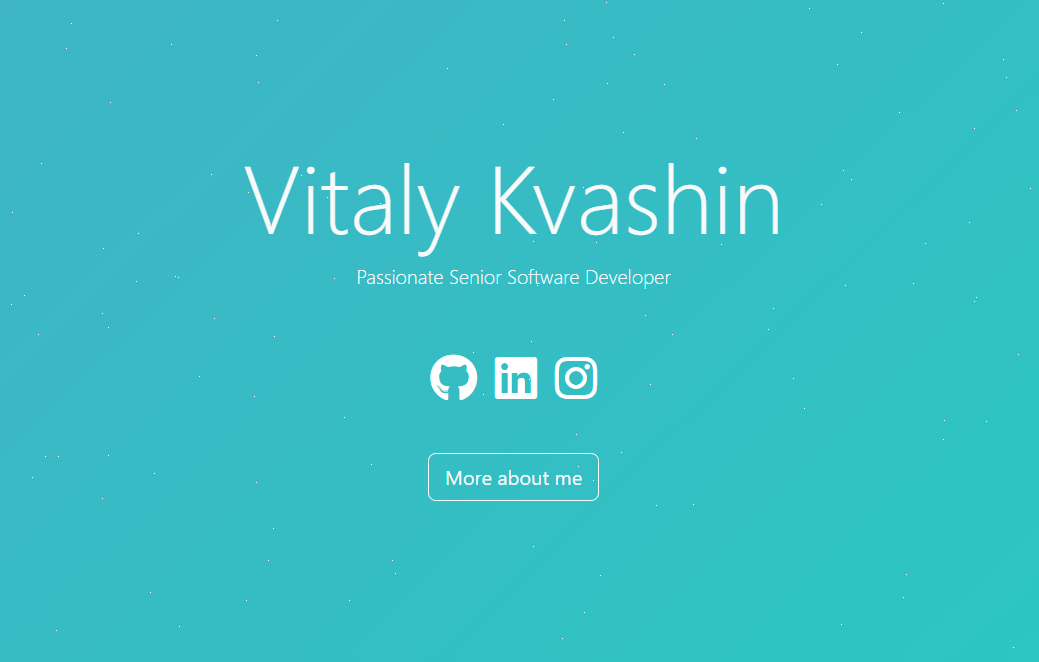
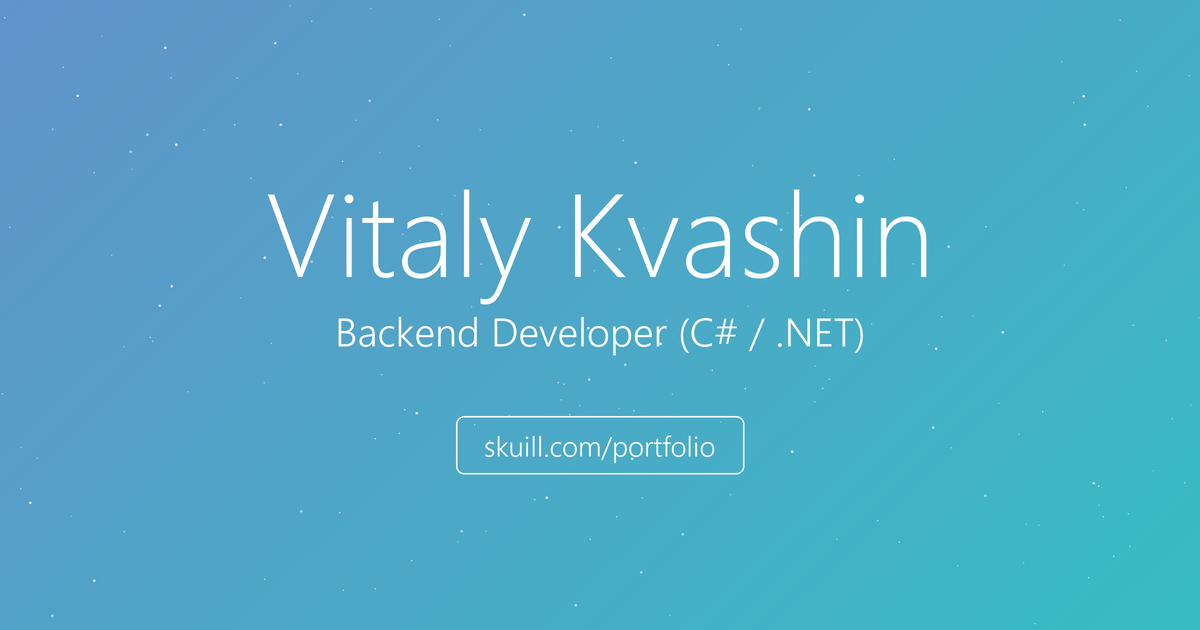
SEO: canonical address, link previews, structured data, new social image (#12)
- index.html: canonical https://skuill.com/portfolio/ on both hosts, Open Graph and X tags
  with an absolute image URL and its size, schema.org Person in JSON-LD, title with the role.
- public/social-image.png: new 1200x630 picture in the style of the first screen, built by
  branding/social-image/social_image.py (Pillow).
- robots.txt: explicit allow; the root file for skuill.com belongs to the front nginx (#13).
- src/seo.test.js: checks the head tags, JSON-LD (name and profiles from config.js),
  the image size against the tags and robots.txt.

diff --git a/src/seo.test.js b/src/seo.test.js
@@ -1,0 +1,80 @@
+import { readFileSync } from "node:fs";
+import { join } from "node:path";
+import { mainBody } from "./editable-stuff/config";
+
+// The page head is static HTML: link preview crawlers and most search engine bots do not run the app's JavaScript.
+const read = (path) => readFileSync(join(import.meta.dirname, "..", path));
+const page = new DOMParser().parseFromString(read("index.html").toString(), "text/html");
+const tags = Object.fromEntries(
+  [...page.head.querySelectorAll("meta[name], meta[property]")].map((meta) => [
+    meta.getAttribute("property") ?? meta.name,
+    meta.content,
+  ])
+);
+
+const SITE = "https://skuill.com/portfolio/";
+const name = `${mainBody.firstName} ${mainBody.lastName}`;
+const role = "Backend Developer (C# / .NET)";
+const profile = (network) => mainBody.icons.find((icon) => icon.image === `fa-${network}`).url;
+
+test("points search engines to skuill.com and gives link previews a title, a description and an absolute image", () => {
+  expect({
+    title: page.title,
+    canonical: [...page.head.querySelectorAll('link[rel="canonical"]')].map((link) => link.getAttribute("href")),
+    tags,
+  }).toEqual({
+    title: `${name} · ${role}`,
+    canonical: [SITE],
+    tags: {
+      viewport: "width=device-width, initial-scale=1",
+      "theme-color": "#000000",
+      description: tags.description,
+      "og:type": "website",
+      "og:url": SITE,
+      "og:title": `${name} · ${role}`,
+      "og:description": tags.description,
+      "og:image": `${SITE}social-image.png`,
+      "og:image:width": "1200",
+      "og:image:height": "630",
+      "og:image:alt": `${name}, ${role}`,
+      "twitter:card": "summary_large_image",
+    },
+  });
+});
+
+test("tells search engines who the page is about, with the profiles linked from the first screen", () => {
+  const structuredData = [...page.head.querySelectorAll('script[type="application/ld+json"]')].map((script) =>
+    JSON.parse(script.textContent)
+  );
+
+  expect(structuredData).toEqual([
+    {
+      "@context": "https://schema.org",
+      "@type": "Person",
+      name,
+      jobTitle: role,
+      url: SITE,
+      sameAs: [profile("github"), profile("linkedin")],
+    },
+  ]);
+});
+
+test("ships the preview image from public/ in the size the tags announce", () => {
+  const png = read(`public/${new URL(tags["og:image"]).pathname.replace("/portfolio/", "")}`);
+
+  // A PNG starts with an 8-byte signature and the IHDR chunk: length, type, then width and height (big-endian).
+  expect({ chunk: png.toString("ascii", 12, 16), width: png.readUInt32BE(16), height: png.readUInt32BE(20) }).toEqual({
+    chunk: "IHDR",
+    width: Number(tags["og:image:width"]),
+    height: Number(tags["og:image:height"]),
+  });
+});
+
+test("lets every crawler in", () => {
+  const rules = read("public/robots.txt")
+    .toString()
+    .split(/\r?\n/)
+    .filter((line) => line && !line.startsWith("#"));
+
+  expect(rules).toEqual(["User-agent: *", "Allow: /"]);
+});

diff --git a/index.html b/index.html
@@ -20,10 +20,36 @@
     />
     <link rel="apple-touch-icon" href="/logo192.png" />
     <link rel="manifest" href="/manifest.json" />
-    <meta name="twitter:image" content="/social-image.png" />
-    <meta property="og:image" content="/social-image.png" />
     <!-- Files in public/ are referenced from the root; the build prefixes them with the base path (/portfolio/). -->
-    <title>Vitaly Kvashin</title>
+    <title>Vitaly Kvashin · Backend Developer (C# / .NET)</title>
+
+    <!-- The same page is served at skuill.com/portfolio/ and skuill.github.io/portfolio/: search engines index skuill.com. -->
+    <link rel="canonical" href="https://skuill.com/portfolio/" />
+    <!-- Link previews (LinkedIn, Telegram, Slack, X). Absolute URLs: not every crawler resolves relative ones.
+         The picture is built by branding/social-image/social_image.py. -->
+    <meta property="og:type" content="website" />
+    <meta property="og:url" content="https://skuill.com/portfolio/" />
+    <meta property="og:title" content="Vitaly Kvashin · Backend Developer (C# / .NET)" />
+    <meta
+      property="og:description"
+      content="Vitaly Kvashin, backend developer (C#/.NET) with over 12 years of experience: payment services and provider integrations at MAJORITY, distributed systems, observability and AI-assisted development."
+    />
+    <meta property="og:image" content="https://skuill.com/portfolio/social-image.png" />
+    <meta property="og:image:width" content="1200" />
+    <meta property="og:image:height" content="630" />
+    <meta property="og:image:alt" content="Vitaly Kvashin, Backend Developer (C# / .NET)" />
+    <meta name="twitter:card" content="summary_large_image" />
+    <!-- Who the page is about, for search engines (schema.org Person). -->
+    <script type="application/ld+json">
+      {
+        "@context": "https://schema.org",
+        "@type": "Person",
+        "name": "Vitaly Kvashin",
+        "jobTitle": "Backend Developer (C# / .NET)",
+        "url": "https://skuill.com/portfolio/",
+        "sameAs": ["https://github.com/skuill", "https://www.linkedin.com/in/vitaly-kvashin/"]
+      }
+    </script>
   </head>
   <body>
     <noscript>You need to enable JavaScript to run this app.</noscript>

diff --git a/branding/social-image/social_image.py b/branding/social-image/social_image.py
@@ -1,0 +1,85 @@
+"""Link preview image (Open Graph) in the style of the site's first screen: gradient, stars, thin white text.
+
+Usage: python social_image.py   -> ../../public/social-image.png (1200x630)
+
+Drawn at 2x and scaled down, so thin lines and text stay smooth. The stars use a fixed random seed,
+so the same script always produces the same image.
+"""
+import math
+import random
+from pathlib import Path
+
+from PIL import Image, ImageDraw, ImageFont
+
+OUT = Path(__file__).parent.parent.parent / "public" / "social-image.png"
+W, H, S = 1200, 630, 2
+# Segoe UI ships with Windows; the site's first screen uses it too (system font stack, light weight).
+LIGHT = "segoeuil.ttf"
+SEMILIGHT = "segoeuisl.ttf"
+
+# The first two colours of the site's animated gradient (mainBody.gradientColors in src/editable-stuff/config.js).
+# The site shows a small, moving part of it; the image takes the blue and part of the way to the teal,
+# where white text still reads well.
+BLUE = (98, 147, 202)
+TEAL = (26, 215, 192)
+TEAL_SHARE = 0.6
+ANGLE = 136  # degrees, as in the site's linear-gradient(136deg, ...)
+WHITE = (255, 255, 255)
+
+NAME = "Vitaly Kvashin"
+ROLE = "Backend Developer (C# / .NET)"
+ADDRESS = "skuill.com/portfolio"
+
+
+def gradient(start, end):
+    """A CSS-like linear gradient at ANGLE from start (top left) to end (bottom right)."""
+    angle = math.radians(ANGLE)
+    dx, dy = math.sin(angle), -math.cos(angle)
+    length = abs(W * dx) + abs(H * dy)  # CSS gradient line: the end colours land exactly in the corners
+    mask = Image.new("L", (W * S, H * S))
+    mask.putdata([
+        round(255 * max(0.0, min(1.0, ((x / S - W / 2) * dx + (y / S - H / 2) * dy) / length + 0.5)))
+        for y in range(H * S)
+        for x in range(W * S)
+    ])
+    return Image.composite(Image.new("RGB", mask.size, end), Image.new("RGB", mask.size, start), mask)
+
+
+def stars(image, seed=12):
+    """Small and medium white dots, like the two star layers of the site's background."""
+    layer = Image.new("RGBA", image.size, (0, 0, 0, 0))
+    draw = ImageDraw.Draw(layer)
+    rnd = random.Random(seed)
+    for count, size in ((150, 1), (45, 2)):
+        for _ in range(count):
+            x, y = rnd.uniform(0, W) * S, rnd.uniform(0, H) * S
+            draw.ellipse((x, y, x + size * S, y + size * S), fill=(*WHITE, rnd.randint(120, 230)))
+    return Image.alpha_composite(image.convert("RGBA"), layer)
+
+
+def font(name, size):
+    return ImageFont.truetype(name, size * S)
+
+
+def text(image):
+    draw = ImageDraw.Draw(image)
+    centre = W / 2 * S
+    draw.text((centre, 228 * S), NAME, font=font(LIGHT, 118), fill=WHITE, anchor="mm")
+    draw.text((centre, 330 * S), ROLE, font=font(SEMILIGHT, 40), fill=WHITE, anchor="mm")
+    # The address in an outlined pill, like the "More about me" button on the site.
+    address = font(SEMILIGHT, 28)
+    width = draw.textlength(ADDRESS, font=address) / S + 56
+    top, height = 416, 58
+    draw.rounded_rectangle(
+        ((W - width) / 2 * S, top * S, (W + width) / 2 * S, (top + height) * S),
+        radius=8 * S, outline=WHITE, width=round(1.5 * S),
+    )
+    draw.text((centre, (top + height / 2) * S), ADDRESS, font=address, fill=WHITE, anchor="mm")
+
+
+if __name__ == "__main__":
+    stop = tuple(round(b + (t - b) * TEAL_SHARE) for b, t in zip(BLUE, TEAL))
+    image = stars(gradient(BLUE, stop))
+    text(image)
+    image.convert("RGB").resize((W, H), Image.LANCZOS).save(OUT, optimize=True)
+    print(f"{OUT} ({OUT.stat().st_size // 1024} KB)")

diff --git a/README.md b/README.md
@@ -10,7 +10,7 @@
 ## Stack
 React 19 built with Vite, React Bootstrap + Bootstrap 5, Sass, react-icons; Vitest + Testing Library, ESLint. Node 24 or newer (CI and Docker use Node 26). Recent projects: a snapshot in `src/editable-stuff/github-projects.json` is shown at once and replaced by live data from the GitHub API (browser `fetch`) when the reader scrolls near the section; if GitHub does not answer (60 requests per hour per IP without a token), the snapshot stays. Analytics: Google Analytics 4 (gtag snippet in `index.html`). Served by nginx in Docker and by GitHub Pages.
 
-Planned: SEO and link previews ([#12](https://github.com/skuill/portfolio/issues/12)), a redesign ([#4](https://github.com/skuill/portfolio/issues/4)).
+Planned: a redesign ([#4](https://github.com/skuill/portfolio/issues/4)).
 
 ## Repository layout
 | Path | What |
@@ -21,12 +21,13 @@ Planned: SEO and link previews ([#12](https://github.com/skuill/portfolio/issues
 | `scripts/github-projects.js` | Refreshes that snapshot: `npm run projects` |
 | `src/components/` | Page sections (`home/`), navbar, footer |
 | `src/scss/` | Styles |
-| `index.html` | Page title and meta description, the entry point of the build |
+| `index.html` | Page title, meta description, canonical address, link preview tags and structured data; the entry point of the build |
 | `public/` | Files served as they are: favicon, `social-image.png` (the link preview), `robots.txt` |
 | `vite.config.js` | Build (base path `/portfolio/`, Sass options) and test settings |
 | `eslint.config.js` | Lint rules |
 | `cv/cv.typ` | Resume source (Typst), builds the PDF |
 | `branding/linkedin-cover/` | LinkedIn cover and its generator |
+| `branding/social-image/` | Generator of `public/social-image.png`, the link preview picture |
 | `.github/workflows/build-and-deploy.yml` | CI (lint, tests, build) and release deploy |
 | `Dockerfile`, `nginx/default.conf` | nginx image that serves the site under `/portfolio`, with compression and cache headers |
 | `lighthouserc.json` | Lighthouse thresholds checked on every pull request |
@@ -71,6 +72,11 @@ docker build -t portfolio . && docker run -d -p 8080:80 portfolio
 bash scripts/check-container.sh http://localhost:8080
 npx @lhci/cli@0.15.1 autorun
 ```
+
+## Search and link previews
+Search engines and link previews (LinkedIn, Telegram, Slack, X) read the static `<head>` of `index.html` without running the app: the title and description, the canonical address `https://skuill.com/portfolio/` (the same on both hosts, so search engines index skuill.com), Open Graph and X tags with an absolute image URL, and a schema.org `Person` in JSON-LD. `src/seo.test.js` checks them, matches the name and profile links with `config.js` and the image size with `public/social-image.png` (built by [branding/social-image](branding/social-image/README.md)).
+
+After a release that changes them, check the live page: [LinkedIn Post Inspector](https://www.linkedin.com/post-inspector/) (also refreshes LinkedIn's cached preview), the link sent in Telegram, [Google Rich Results Test](https://search.google.com/test/rich-results).
 
 ## Resume PDF
 The "Resume" button opens `src/editable-stuff/CV_Vitaly_Kvashin.pdf`, built from `cv/cv.typ` with [Typst](https://typst.app/) 0.15.1 (Windows: `winget install Typst.Typst`). Edit `cv/cv.typ`, keeping its text in sync with `config.js`, then:

diff --git a/branding/social-image/README.md b/branding/social-image/README.md
@@ -1,0 +1,18 @@
+# Link preview image
+
+`public/social-image.png` is the picture LinkedIn, Telegram, Slack and X show when someone shares a link to the site (`og:image` in `index.html`). It repeats the site's first screen: the blue to teal part of the site's gradient, stars, the name in Segoe UI Light, the role and the address in an outlined pill.
+
+- Size: 1200x630, the size Open Graph previews are cropped to (1.91:1). Everything important sits in the middle, so X's 2:1 crop cuts only the background.
+- PNG, not WebP: not every link preview service reads WebP.
+- Font: Segoe UI Light and Semilight (ship with Windows 10 and later).
+
+## Change and rebuild
+Needs Python 3 and Pillow (`pip install pillow`). Edit `social_image.py` (colours, `NAME`, `ROLE`, `ADDRESS`), then run from this folder:
+
+```sh
+python social_image.py   # rebuilds ../../public/social-image.png
+```
+
+The stars use a fixed random seed, so the same script always produces the same image. If the size changes, update `og:image:width` and `og:image:height` in `index.html` (a test checks they match the file).
+
+Preview services keep the old picture for a while after a release: refresh it with the [LinkedIn Post Inspector](https://www.linkedin.com/post-inspector/) and, for Telegram, by sending the link to [@WebpageBot](https://t.me/WebpageBot).
